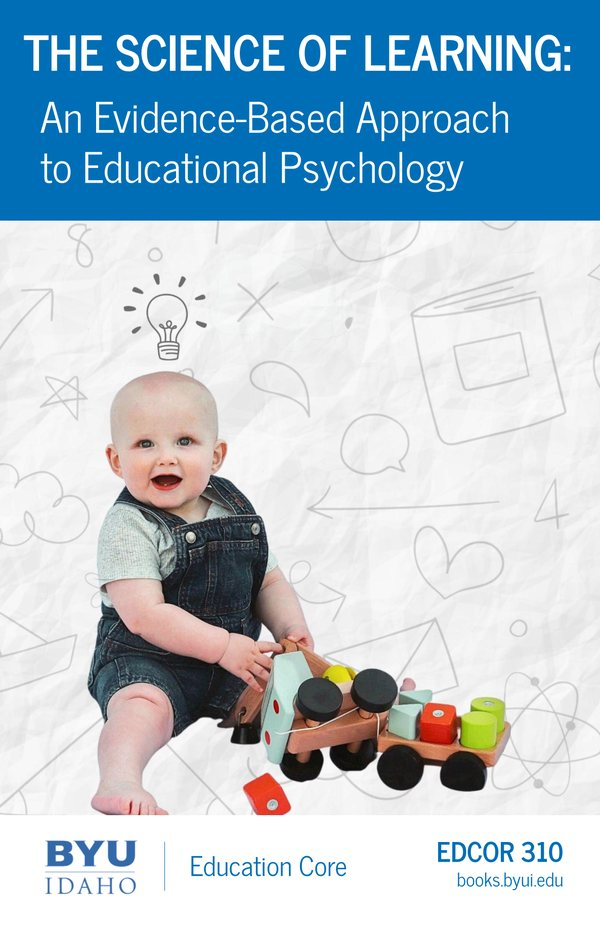
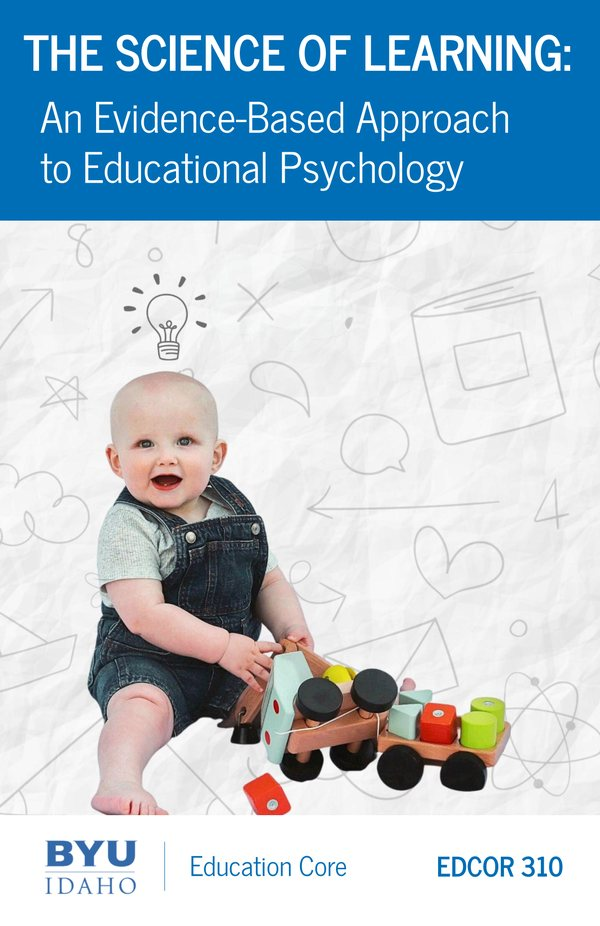
Cover: remove the old books.byui.edu address for the web version
Claude-Session: https://claude.ai/code/session_01HMNQmLvZHX4JKWVjY2nz9h

Changed region(s): [[0.72, 0.9071, 0.96, 0.9676]]

diff --git a/build/build_site.py b/build/build_site.py
@@ -412,9 +412,14 @@ COVER_SIZE = (600, 926)
 
 
 def build_cover():
-    """Web-sized copy of the EdTechBooks cover (etb-live/cover.png, kept at full size)."""
+    """Web-sized copy of the cover.
+
+    build/cover-web.png is the EdTechBooks cover with the old books.byui.edu address removed;
+    the untouched original stays in etb-live/cover.png.
+    """
     global COVER_SIZE
-    im = Image.open(SRC / "cover.png").convert("RGB")
+    src = ROOT / "build" / "cover-web.png"
+    im = Image.open(src if src.exists() else SRC / "cover.png").convert("RGB")
     w = 600
     im = im.resize((w, round(im.height * w / im.width)), Image.LANCZOS)
     COVER_SIZE = im.size
